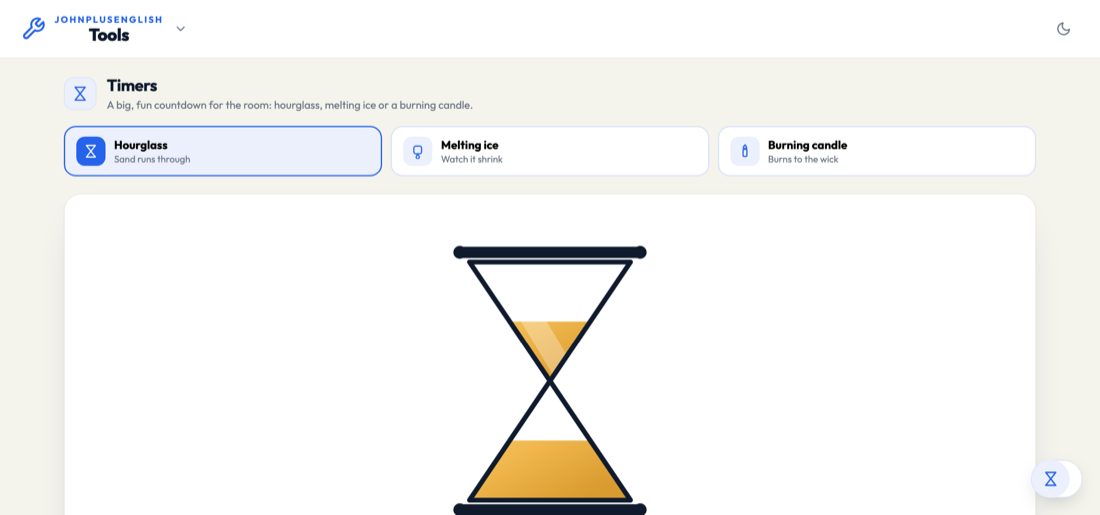
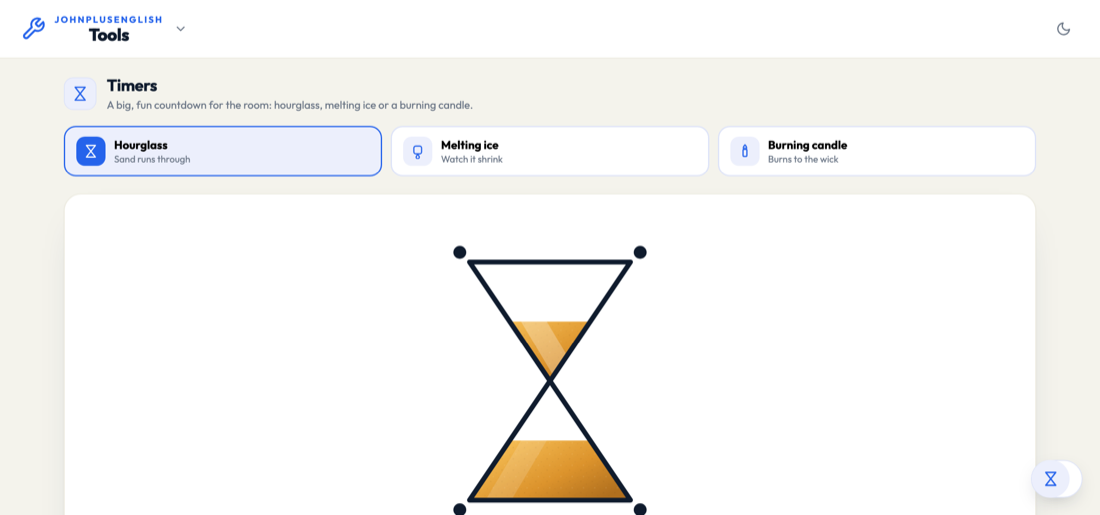
Timers: richer gradients, grain texture, contact shadows on all three
Pushed the original hand-built SVG style further rather than switching
approaches again: multi-hue gradients (4-5 stops with real hue shift, not
just light-to-dark of one color) instead of the flatter 3-stop gradients,
a subtle grain/frost pattern texture over each fill so they read less like
a flawless vector gradient, and tighter contact shadows where the object
actually touches its surface, layered under the existing soft ambient
shadow.

Also: a second neck shadow line in the hourglass, a third facet line and a
firmer contact ring under the ice, and a smoother radial-gradient flame
core with a wax-side shading stripe on the candle.

Changed region(s): [[0.4018, 0.901, 0.5873, 1.0], [0.4018, 0.466, 0.5873, 0.5282]]

diff --git a/src/timers.html b/src/timers.html
@@ -279,18 +279,35 @@ function tmrRenderHourglass(progress, running) {
         '<clipPath id="tmrTopClip"><rect x="0" y="' + topClipY.toFixed(1) + '" width="160" height="' + (topH + 1).toFixed(1) + '"/></clipPath>' +
         '<clipPath id="tmrBotClip"><rect x="0" y="' + botClipY.toFixed(1) + '" width="160" height="' + (botH + 1).toFixed(1) + '"/></clipPath>' +
         '<clipPath id="tmrGlassClipTop"><polygon points="30,26 130,26 80,100"/></clipPath>' +
-        '<linearGradient id="tmrSandGrad" x1="0" y1="0" x2="0.7" y2="1">' +
-          '<stop offset="0" stop-color="#ffd27a"/><stop offset="0.55" stop-color="#f0b84e"/><stop offset="1" stop-color="#d99a2f"/>' +
+        '<clipPath id="tmrGlassClipBot"><polygon points="30,174 130,174 80,100"/></clipPath>' +
+        '<linearGradient id="tmrSandGrad" x1="0.1" y1="0" x2="0.8" y2="1">' +
+          '<stop offset="0" stop-color="#ffe3a3"/><stop offset="0.4" stop-color="#f5bd54"/>' +
+          '<stop offset="0.75" stop-color="#dc932c"/><stop offset="1" stop-color="#b06f1e"/>' +
         '</linearGradient>' +
+        '<linearGradient id="tmrCapGrad" x1="0" y1="0" x2="0" y2="1">' +
+          '<stop offset="0" stop-color="var(--ink)" stop-opacity="0.85"/><stop offset="1" stop-color="var(--ink)"/>' +
+        '</linearGradient>' +
+        '<pattern id="tmrGrain" width="7" height="7" patternUnits="userSpaceOnUse">' +
+          '<circle cx="1.2" cy="1.4" r="0.5" fill="#5c3b0e" opacity="0.16"/>' +
+          '<circle cx="4.6" cy="3.1" r="0.4" fill="#5c3b0e" opacity="0.12"/>' +
+          '<circle cx="2.8" cy="5.4" r="0.45" fill="#fff6df" opacity="0.22"/>' +
+          '<circle cx="6.1" cy="6" r="0.35" fill="#5c3b0e" opacity="0.1"/>' +
+        '</pattern>' +
       '</defs>' +
-      '<ellipse cx="80" cy="192" rx="36" ry="5" fill="var(--ink)" opacity="0.08"/>' +
+      '<ellipse cx="80" cy="193" rx="34" ry="4.5" fill="var(--ink)" opacity="0.09"/>' +
+      '<ellipse cx="80" cy="190" rx="20" ry="2.5" fill="var(--ink)" opacity="0.14"/>' +
       '<polygon points="30,26 130,26 80,100" fill="url(#tmrSandGrad)" clip-path="url(#tmrTopClip)"/>' +
+      '<polygon points="30,26 130,26 80,100" fill="url(#tmrGrain)" opacity="0.5" clip-path="url(#tmrTopClip)"/>' +
       '<polygon points="30,174 130,174 80,100" fill="url(#tmrSandGrad)" clip-path="url(#tmrBotClip)"/>' +
+      '<polygon points="30,174 130,174 80,100" fill="url(#tmrGrain)" opacity="0.5" clip-path="url(#tmrBotClip)"/>' +
+      '<line x1="69" y1="97" x2="69" y2="103" stroke="#7a4f14" stroke-width="1.4" opacity="0.35" clip-path="url(#tmrGlassClipBot)"/>' +
       grains +
-      '<polygon points="40,26 56,26 100,100 84,100" fill="#ffffff" opacity="0.3" clip-path="url(#tmrGlassClipTop)"/>' +
+      '<polygon points="40,26 56,26 100,100 84,100" fill="#ffffff" opacity="0.28" clip-path="url(#tmrGlassClipTop)"/>' +
+      '<polygon points="40,174 56,174 100,100 84,100" fill="#ffffff" opacity="0.14" clip-path="url(#tmrGlassClipBot)"/>' +
       '<path d="M30 26 L130 26 L80 100 Z M30 174 L130 174 L80 100 Z" fill="none" stroke="var(--ink)" stroke-width="3" stroke-linejoin="round"/>' +
-      '<line x1="24" y1="20" x2="136" y2="20" stroke="var(--ink)" stroke-width="7" stroke-linecap="round"/>' +
-      '<line x1="24" y1="180" x2="136" y2="180" stroke="var(--ink)" stroke-width="7" stroke-linecap="round"/>' +
+      '<line x1="24" y1="20" x2="136" y2="20" stroke="url(#tmrCapGrad)" stroke-width="7" stroke-linecap="round"/>' +
+      '<line x1="24" y1="180" x2="136" y2="180" stroke="url(#tmrCapGrad)" stroke-width="7" stroke-linecap="round"/>' +
+      '<line x1="30" y1="17.5" x2="130" y2="17.5" stroke="#ffffff" stroke-width="1" opacity="0.2" stroke-linecap="round"/>' +
       '<circle cx="24" cy="20" r="4" fill="var(--ink)"/><circle cx="136" cy="20" r="4" fill="var(--ink)"/>' +
       '<circle cx="24" cy="180" r="4" fill="var(--ink)"/><circle cx="136" cy="180" r="4" fill="var(--ink)"/>' +
     '</svg>';
@@ -320,21 +337,31 @@ function tmrRenderIce(progress, running) {
   return '' +
     '<svg viewBox="0 0 160 200" class="tmr-svg" xmlns="http://www.w3.org/2000/svg">' +
       '<defs>' +
-        '<linearGradient id="tmrIceGrad" x1="0" y1="0" x2="1" y2="1">' +
-          '<stop offset="0" stop-color="#eaf8ff"/><stop offset="0.5" stop-color="#bfe8fb"/><stop offset="1" stop-color="#8fd0f2"/>' +
+        '<linearGradient id="tmrIceGrad" x1="0.05" y1="0" x2="0.9" y2="1">' +
+          '<stop offset="0" stop-color="#f5fcff"/><stop offset="0.35" stop-color="#cdedfc"/>' +
+          '<stop offset="0.7" stop-color="#8fd0f2"/><stop offset="1" stop-color="#5fa9d6"/>' +
         '</linearGradient>' +
         '<radialGradient id="tmrPuddleGrad" cx="0.5" cy="0.35" r="0.65">' +
-          '<stop offset="0" stop-color="#d3f1fd"/><stop offset="1" stop-color="#8fd0f2"/>' +
+          '<stop offset="0" stop-color="#e2f6ff"/><stop offset="0.6" stop-color="#a9ddf5"/><stop offset="1" stop-color="#79bfe8"/>' +
         '</radialGradient>' +
+        '<pattern id="tmrFrost" width="8" height="8" patternUnits="userSpaceOnUse">' +
+          '<circle cx="1.4" cy="1.6" r="0.5" fill="#ffffff" opacity="0.5"/>' +
+          '<circle cx="5.2" cy="3.4" r="0.35" fill="#ffffff" opacity="0.35"/>' +
+          '<circle cx="3.1" cy="6.2" r="0.4" fill="#1a5a86" opacity="0.12"/>' +
+          '<circle cx="6.8" cy="6.6" r="0.3" fill="#ffffff" opacity="0.3"/>' +
+        '</pattern>' +
       '</defs>' +
       '<ellipse cx="80" cy="176" rx="' + puddleRx.toFixed(1) + '" ry="' + puddleRy.toFixed(1) + '" fill="url(#tmrPuddleGrad)" opacity="' + puddleOpacity + '"/>' +
       (puddleRx > 28 ? '<ellipse cx="80" cy="176" rx="' + (puddleRx * 0.65).toFixed(1) + '" ry="' + (puddleRy * 0.65).toFixed(1) + '" fill="none" stroke="#ffffff" stroke-width="0.8" opacity="0.4"/>' : '') +
-      '<rect x="' + x + '" y="' + topY.toFixed(1) + '" width="' + w + '" height="' + h.toFixed(1) + '" rx="' + rx.toFixed(1) + '" fill="url(#tmrIceGrad)" fill-opacity="0.92" stroke="#8fd0f2" stroke-width="2"/>' +
-      (h > 26 ? '<line x1="' + (x + 8) + '" y1="' + (topY + h * 0.3).toFixed(1) + '" x2="' + (x + w - 10) + '" y2="' + (topY + h * 0.5).toFixed(1) + '" stroke="#ffffff" stroke-width="1" opacity="0.3"/>' : '') +
-      (h > 26 ? '<line x1="' + (x + w - 12) + '" y1="' + (topY + h * 0.2).toFixed(1) + '" x2="' + (x + 14) + '" y2="' + (topY + h * 0.85).toFixed(1) + '" stroke="#ffffff" stroke-width="0.7" opacity="0.2"/>' : '') +
+      '<ellipse cx="80" cy="' + (bottomY + 1).toFixed(1) + '" rx="' + (w * 0.42).toFixed(1) + '" ry="2.4" fill="#3d7ba8" opacity="0.22"/>' +
+      '<rect x="' + x + '" y="' + topY.toFixed(1) + '" width="' + w + '" height="' + h.toFixed(1) + '" rx="' + rx.toFixed(1) + '" fill="url(#tmrIceGrad)" fill-opacity="0.94" stroke="#5fa9d6" stroke-width="1.6"/>' +
+      '<rect x="' + x + '" y="' + topY.toFixed(1) + '" width="' + w + '" height="' + h.toFixed(1) + '" rx="' + rx.toFixed(1) + '" fill="url(#tmrFrost)" opacity="0.55"/>' +
+      (h > 26 ? '<line x1="' + (x + 8) + '" y1="' + (topY + h * 0.3).toFixed(1) + '" x2="' + (x + w - 10) + '" y2="' + (topY + h * 0.5).toFixed(1) + '" stroke="#ffffff" stroke-width="1" opacity="0.35"/>' : '') +
+      (h > 26 ? '<line x1="' + (x + w - 12) + '" y1="' + (topY + h * 0.2).toFixed(1) + '" x2="' + (x + 14) + '" y2="' + (topY + h * 0.85).toFixed(1) + '" stroke="#ffffff" stroke-width="0.7" opacity="0.22"/>' : '') +
+      (h > 26 ? '<line x1="' + (x + 22) + '" y1="' + (topY + h * 0.08).toFixed(1) + '" x2="' + (x + 6) + '" y2="' + (topY + h * 0.6).toFixed(1) + '" stroke="#2f6f9c" stroke-width="0.6" opacity="0.18"/>' : '') +
       bubbleMarkup +
-      '<rect x="' + (x + 10) + '" y="' + (topY + 8).toFixed(1) + '" width="9" height="' + Math.max(0, h - 20).toFixed(1) + '" rx="4" fill="#ffffff" opacity="0.6"/>' +
-      '<rect x="' + (x + w - 15) + '" y="' + (topY + 14).toFixed(1) + '" width="4" height="' + Math.max(0, h - 30).toFixed(1) + '" rx="2" fill="#ffffff" opacity="0.35"/>' +
+      '<rect x="' + (x + 10) + '" y="' + (topY + 8).toFixed(1) + '" width="9" height="' + Math.max(0, h - 20).toFixed(1) + '" rx="4" fill="#ffffff" opacity="0.65"/>' +
+      '<rect x="' + (x + w - 15) + '" y="' + (topY + 14).toFixed(1) + '" width="4" height="' + Math.max(0, h - 30).toFixed(1) + '" rx="2" fill="#ffffff" opacity="0.4"/>' +
       (dripsOn ?
         '<circle cx="' + (x + 16) + '" cy="' + (bottomY + phaseA * 14).toFixed(1) + '" r="3" fill="#8fd0f2" opacity="' + (1 - phaseA).toFixed(2) + '"/>' +
         '<circle cx="' + (x + 52) + '" cy="' + (bottomY + phaseB * 14).toFixed(1) + '" r="2.4" fill="#8fd0f2" opacity="' + (1 - phaseB).toFixed(2) + '"/>'
@@ -358,24 +385,35 @@ function tmrRenderCandle(progress, running) {
     '<svg viewBox="0 0 160 200" class="tmr-svg" xmlns="http://www.w3.org/2000/svg">' +
       '<defs>' +
         '<linearGradient id="tmrWaxGrad" x1="0" y1="0" x2="1" y2="0">' +
-          '<stop offset="0" stop-color="#fffaf0"/><stop offset="0.45" stop-color="#fbeed9"/><stop offset="1" stop-color="#ecd9b4"/>' +
+          '<stop offset="0" stop-color="#fffdf5"/><stop offset="0.35" stop-color="#fbeed9"/>' +
+          '<stop offset="0.75" stop-color="#e8d0a0"/><stop offset="1" stop-color="#c9a874"/>' +
         '</linearGradient>' +
         '<radialGradient id="tmrFlameGlow" cx="0.5" cy="0.5" r="0.5">' +
           '<stop offset="0" stop-color="#ffd35b" stop-opacity="0.55"/><stop offset="1" stop-color="#ffd35b" stop-opacity="0"/>' +
         '</radialGradient>' +
+        '<radialGradient id="tmrFlameCore" cx="0.5" cy="0.72" r="0.6">' +
+          '<stop offset="0" stop-color="#fffdf0"/><stop offset="0.45" stop-color="#ffd35b"/><stop offset="1" stop-color="#ff8a3d"/>' +
+        '</radialGradient>' +
+        '<pattern id="tmrWaxGrain" width="7" height="7" patternUnits="userSpaceOnUse">' +
+          '<circle cx="1.3" cy="1.5" r="0.4" fill="#c9a874" opacity="0.25"/>' +
+          '<circle cx="4.8" cy="3.2" r="0.3" fill="#ffffff" opacity="0.3"/>' +
+          '<circle cx="2.9" cy="5.6" r="0.35" fill="#c9a874" opacity="0.2"/>' +
+        '</pattern>' +
       '</defs>' +
-      '<ellipse cx="80" cy="185" rx="28" ry="6.5" fill="var(--ink)" opacity="0.1"/>' +
-      '<rect x="' + x + '" y="' + topY.toFixed(1) + '" width="' + w + '" height="' + h.toFixed(1) + '" rx="7" fill="url(#tmrWaxGrad)" stroke="#e7d3ac" stroke-width="1.5"/>' +
-      '<rect x="' + (x + 4) + '" y="' + topY.toFixed(1) + '" width="6" height="' + h.toFixed(1) + '" rx="3" fill="#ffffff" opacity="0.45"/>' +
+      '<ellipse cx="80" cy="186" rx="30" ry="7" fill="var(--ink)" opacity="0.08"/>' +
+      '<ellipse cx="80" cy="184" rx="18" ry="3" fill="var(--ink)" opacity="0.15"/>' +
+      '<rect x="' + x + '" y="' + topY.toFixed(1) + '" width="' + w + '" height="' + h.toFixed(1) + '" rx="7" fill="url(#tmrWaxGrad)" stroke="#d8bc8a" stroke-width="1.4"/>' +
+      '<rect x="' + x + '" y="' + topY.toFixed(1) + '" width="' + w + '" height="' + h.toFixed(1) + '" rx="7" fill="url(#tmrWaxGrain)" opacity="0.6"/>' +
+      '<rect x="' + (x + 4) + '" y="' + topY.toFixed(1) + '" width="6" height="' + h.toFixed(1) + '" rx="3" fill="#ffffff" opacity="0.5"/>' +
+      '<rect x="' + (x + w - 9) + '" y="' + topY.toFixed(1) + '" width="3" height="' + h.toFixed(1) + '" rx="1.5" fill="#8a6f42" opacity="0.18"/>' +
       '<ellipse cx="80" cy="' + topY.toFixed(1) + '" rx="9" ry="2.6" fill="#e9d3a4"/>' +
       (dripOn ? '<path d="M' + (x + w - 4) + ' ' + dripY.toFixed(1) + ' q4.5 3.5 0 9 q-4.5 -3.5 0 -9 Z" fill="#f4e2bd"/>' : '') +
       '<line x1="80" y1="' + topY.toFixed(1) + '" x2="80" y2="' + (topY - 9).toFixed(1) + '" stroke="#4a3c28" stroke-width="2" stroke-linecap="round"/>' +
       (lit ?
         '<circle cx="80" cy="' + (topY - 15).toFixed(1) + '" r="' + (13 + flick * 1.3).toFixed(1) + '" fill="url(#tmrFlameGlow)" opacity="' + glowPulse + '"/>' +
         '<g transform="translate(80,' + (topY - 9).toFixed(1) + ') scale(' + flameScale + ') skewX(' + flameSkew + ')">' +
-          '<path d="M0 -22 C 9 -12 9 -2 0 4 C -9 -2 -9 -12 0 -22 Z" fill="#ff8a3d"/>' +
-          '<path d="M0 -15 C 5 -8 5 -1 0 3 C -5 -1 -5 -8 0 -15 Z" fill="#ffd35b"/>' +
-          '<path d="M0 -8 C 2.4 -4 2.4 -1 0 2 C -2.4 -1 -2.4 -4 0 -8 Z" fill="#fff6d8"/>' +
+          '<path d="M0 -22 C 9 -12 9 -2 0 4 C -9 -2 -9 -12 0 -22 Z" fill="url(#tmrFlameCore)"/>' +
+          '<path d="M0 -8 C 2.4 -4 2.4 -1 0 2 C -2.4 -1 -2.4 -4 0 -8 Z" fill="#fff6d8" opacity="0.9"/>' +
         '</g>'
       :
         '<path d="M80 ' + (topY - 9).toFixed(1) + ' C 86 ' + (topY - 20).toFixed(1) + ' 76 ' + (topY - 30).toFixed(1) + ' 82 ' + (topY - 42).toFixed(1) + '" fill="none" stroke="var(--muted)" stroke-width="2" stroke-linecap="round" opacity="0.5"/>'

diff --git a/tools/timers.html b/tools/timers.html
@@ -493,18 +493,35 @@ function tmrRenderHourglass(progress, running) {
         '<clipPath id="tmrTopClip"><rect x="0" y="' + topClipY.toFixed(1) + '" width="160" height="' + (topH + 1).toFixed(1) + '"/></clipPath>' +
         '<clipPath id="tmrBotClip"><rect x="0" y="' + botClipY.toFixed(1) + '" width="160" height="' + (botH + 1).toFixed(1) + '"/></clipPath>' +
         '<clipPath id="tmrGlassClipTop"><polygon points="30,26 130,26 80,100"/></clipPath>' +
-        '<linearGradient id="tmrSandGrad" x1="0" y1="0" x2="0.7" y2="1">' +
-          '<stop offset="0" stop-color="#ffd27a"/><stop offset="0.55" stop-color="#f0b84e"/><stop offset="1" stop-color="#d99a2f"/>' +
+        '<clipPath id="tmrGlassClipBot"><polygon points="30,174 130,174 80,100"/></clipPath>' +
+        '<linearGradient id="tmrSandGrad" x1="0.1" y1="0" x2="0.8" y2="1">' +
+          '<stop offset="0" stop-color="#ffe3a3"/><stop offset="0.4" stop-color="#f5bd54"/>' +
+          '<stop offset="0.75" stop-color="#dc932c"/><stop offset="1" stop-color="#b06f1e"/>' +
         '</linearGradient>' +
+        '<linearGradient id="tmrCapGrad" x1="0" y1="0" x2="0" y2="1">' +
+          '<stop offset="0" stop-color="var(--ink)" stop-opacity="0.85"/><stop offset="1" stop-color="var(--ink)"/>' +
+        '</linearGradient>' +
+        '<pattern id="tmrGrain" width="7" height="7" patternUnits="userSpaceOnUse">' +
+          '<circle cx="1.2" cy="1.4" r="0.5" fill="#5c3b0e" opacity="0.16"/>' +
+          '<circle cx="4.6" cy="3.1" r="0.4" fill="#5c3b0e" opacity="0.12"/>' +
+          '<circle cx="2.8" cy="5.4" r="0.45" fill="#fff6df" opacity="0.22"/>' +
+          '<circle cx="6.1" cy="6" r="0.35" fill="#5c3b0e" opacity="0.1"/>' +
+        '</pattern>' +
       '</defs>' +
-      '<ellipse cx="80" cy="192" rx="36" ry="5" fill="var(--ink)" opacity="0.08"/>' +
+      '<ellipse cx="80" cy="193" rx="34" ry="4.5" fill="var(--ink)" opacity="0.09"/>' +
+      '<ellipse cx="80" cy="190" rx="20" ry="2.5" fill="var(--ink)" opacity="0.14"/>' +
       '<polygon points="30,26 130,26 80,100" fill="url(#tmrSandGrad)" clip-path="url(#tmrTopClip)"/>' +
+      '<polygon points="30,26 130,26 80,100" fill="url(#tmrGrain)" opacity="0.5" clip-path="url(#tmrTopClip)"/>' +
       '<polygon points="30,174 130,174 80,100" fill="url(#tmrSandGrad)" clip-path="url(#tmrBotClip)"/>' +
+      '<polygon points="30,174 130,174 80,100" fill="url(#tmrGrain)" opacity="0.5" clip-path="url(#tmrBotClip)"/>' +
+      '<line x1="69" y1="97" x2="69" y2="103" stroke="#7a4f14" stroke-width="1.4" opacity="0.35" clip-path="url(#tmrGlassClipBot)"/>' +
       grains +
-      '<polygon points="40,26 56,26 100,100 84,100" fill="#ffffff" opacity="0.3" clip-path="url(#tmrGlassClipTop)"/>' +
+      '<polygon points="40,26 56,26 100,100 84,100" fill="#ffffff" opacity="0.28" clip-path="url(#tmrGlassClipTop)"/>' +
+      '<polygon points="40,174 56,174 100,100 84,100" fill="#ffffff" opacity="0.14" clip-path="url(#tmrGlassClipBot)"/>' +
       '<path d="M30 26 L130 26 L80 100 Z M30 174 L130 174 L80 100 Z" fill="none" stroke="var(--ink)" stroke-width="3" stroke-linejoin="round"/>' +
-      '<line x1="24" y1="20" x2="136" y2="20" stroke="var(--ink)" stroke-width="7" stroke-linecap="round"/>' +
-      '<line x1="24" y1="180" x2="136" y2="180" stroke="var(--ink)" stroke-width="7" stroke-linecap="round"/>' +
+      '<line x1="24" y1="20" x2="136" y2="20" stroke="url(#tmrCapGrad)" stroke-width="7" stroke-linecap="round"/>' +
+      '<line x1="24" y1="180" x2="136" y2="180" stroke="url(#tmrCapGrad)" stroke-width="7" stroke-linecap="round"/>' +
+      '<line x1="30" y1="17.5" x2="130" y2="17.5" stroke="#ffffff" stroke-width="1" opacity="0.2" stroke-linecap="round"/>' +
       '<circle cx="24" cy="20" r="4" fill="var(--ink)"/><circle cx="136" cy="20" r="4" fill="var(--ink)"/>' +
       '<circle cx="24" cy="180" r="4" fill="var(--ink)"/><circle cx="136" cy="180" r="4" fill="var(--ink)"/>' +
     '</svg>';
@@ -534,21 +551,31 @@ function tmrRenderIce(progress, running) {
   return '' +
     '<svg viewBox="0 0 160 200" class="tmr-svg" xmlns="http://www.w3.org/2000/svg">' +
       '<defs>' +
-        '<linearGradient id="tmrIceGrad" x1="0" y1="0" x2="1" y2="1">' +
-          '<stop offset="0" stop-color="#eaf8ff"/><stop offset="0.5" stop-color="#bfe8fb"/><stop offset="1" stop-color="#8fd0f2"/>' +
+        '<linearGradient id="tmrIceGrad" x1="0.05" y1="0" x2="0.9" y2="1">' +
+          '<stop offset="0" stop-color="#f5fcff"/><stop offset="0.35" stop-color="#cdedfc"/>' +
+          '<stop offset="0.7" stop-color="#8fd0f2"/><stop offset="1" stop-color="#5fa9d6"/>' +
         '</linearGradient>' +
         '<radialGradient id="tmrPuddleGrad" cx="0.5" cy="0.35" r="0.65">' +
-          '<stop offset="0" stop-color="#d3f1fd"/><stop offset="1" stop-color="#8fd0f2"/>' +
+          '<stop offset="0" stop-color="#e2f6ff"/><stop offset="0.6" stop-color="#a9ddf5"/><stop offset="1" stop-color="#79bfe8"/>' +
         '</radialGradient>' +
+        '<pattern id="tmrFrost" width="8" height="8" patternUnits="userSpaceOnUse">' +
+          '<circle cx="1.4" cy="1.6" r="0.5" fill="#ffffff" opacity="0.5"/>' +
+          '<circle cx="5.2" cy="3.4" r="0.35" fill="#ffffff" opacity="0.35"/>' +
+          '<circle cx="3.1" cy="6.2" r="0.4" fill="#1a5a86" opacity="0.12"/>' +
+          '<circle cx="6.8" cy="6.6" r="0.3" fill="#ffffff" opacity="0.3"/>' +
+        '</pattern>' +
       '</defs>' +
       '<ellipse cx="80" cy="176" rx="' + puddleRx.toFixed(1) + '" ry="' + puddleRy.toFixed(1) + '" fill="url(#tmrPuddleGrad)" opacity="' + puddleOpacity + '"/>' +
       (puddleRx > 28 ? '<ellipse cx="80" cy="176" rx="' + (puddleRx * 0.65).toFixed(1) + '" ry="' + (puddleRy * 0.65).toFixed(1) + '" fill="none" stroke="#ffffff" stroke-width="0.8" opacity="0.4"/>' : '') +
-      '<rect x="' + x + '" y="' + topY.toFixed(1) + '" width="' + w + '" height="' + h.toFixed(1) + '" rx="' + rx.toFixed(1) + '" fill="url(#tmrIceGrad)" fill-opacity="0.92" stroke="#8fd0f2" stroke-width="2"/>' +
-      (h > 26 ? '<line x1="' + (x + 8) + '" y1="' + (topY + h * 0.3).toFixed(1) + '" x2="' + (x + w - 10) + '" y2="' + (topY + h * 0.5).toFixed(1) + '" stroke="#ffffff" stroke-width="1" opacity="0.3"/>' : '') +
-      (h > 26 ? '<line x1="' + (x + w - 12) + '" y1="' + (topY + h * 0.2).toFixed(1) + '" x2="' + (x + 14) + '" y2="' + (topY + h * 0.85).toFixed(1) + '" stroke="#ffffff" stroke-width="0.7" opacity="0.2"/>' : '') +
+      '<ellipse cx="80" cy="' + (bottomY + 1).toFixed(1) + '" rx="' + (w * 0.42).toFixed(1) + '" ry="2.4" fill="#3d7ba8" opacity="0.22"/>' +
+      '<rect x="' + x + '" y="' + topY.toFixed(1) + '" width="' + w + '" height="' + h.toFixed(1) + '" rx="' + rx.toFixed(1) + '" fill="url(#tmrIceGrad)" fill-opacity="0.94" stroke="#5fa9d6" stroke-width="1.6"/>' +
+      '<rect x="' + x + '" y="' + topY.toFixed(1) + '" width="' + w + '" height="' + h.toFixed(1) + '" rx="' + rx.toFixed(1) + '" fill="url(#tmrFrost)" opacity="0.55"/>' +
+      (h > 26 ? '<line x1="' + (x + 8) + '" y1="' + (topY + h * 0.3).toFixed(1) + '" x2="' + (x + w - 10) + '" y2="' + (topY + h * 0.5).toFixed(1) + '" stroke="#ffffff" stroke-width="1" opacity="0.35"/>' : '') +
+      (h > 26 ? '<line x1="' + (x + w - 12) + '" y1="' + (topY + h * 0.2).toFixed(1) + '" x2="' + (x + 14) + '" y2="' + (topY + h * 0.85).toFixed(1) + '" stroke="#ffffff" stroke-width="0.7" opacity="0.22"/>' : '') +
+      (h > 26 ? '<line x1="' + (x + 22) + '" y1="' + (topY + h * 0.08).toFixed(1) + '" x2="' + (x + 6) + '" y2="' + (topY + h * 0.6).toFixed(1) + '" stroke="#2f6f9c" stroke-width="0.6" opacity="0.18"/>' : '') +
       bubbleMarkup +
-      '<rect x="' + (x + 10) + '" y="' + (topY + 8).toFixed(1) + '" width="9" height="' + Math.max(0, h - 20).toFixed(1) + '" rx="4" fill="#ffffff" opacity="0.6"/>' +
-      '<rect x="' + (x + w - 15) + '" y="' + (topY + 14).toFixed(1) + '" width="4" height="' + Math.max(0, h - 30).toFixed(1) + '" rx="2" fill="#ffffff" opacity="0.35"/>' +
+      '<rect x="' + (x + 10) + '" y="' + (topY + 8).toFixed(1) + '" width="9" height="' + Math.max(0, h - 20).toFixed(1) + '" rx="4" fill="#ffffff" opacity="0.65"/>' +
+      '<rect x="' + (x + w - 15) + '" y="' + (topY + 14).toFixed(1) + '" width="4" height="' + Math.max(0, h - 30).toFixed(1) + '" rx="2" fill="#ffffff" opacity="0.4"/>' +
       (dripsOn ?
         '<circle cx="' + (x + 16) + '" cy="' + (bottomY + phaseA * 14).toFixed(1) + '" r="3" fill="#8fd0f2" opacity="' + (1 - phaseA).toFixed(2) + '"/>' +
         '<circle cx="' + (x + 52) + '" cy="' + (bottomY + phaseB * 14).toFixed(1) + '" r="2.4" fill="#8fd0f2" opacity="' + (1 - phaseB).toFixed(2) + '"/>'
@@ -572,24 +599,35 @@ function tmrRenderCandle(progress, running) {
     '<svg viewBox="0 0 160 200" class="tmr-svg" xmlns="http://www.w3.org/2000/svg">' +
       '<defs>' +
         '<linearGradient id="tmrWaxGrad" x1="0" y1="0" x2="1" y2="0">' +
-          '<stop offset="0" stop-color="#fffaf0"/><stop offset="0.45" stop-color="#fbeed9"/><stop offset="1" stop-color="#ecd9b4"/>' +
+          '<stop offset="0" stop-color="#fffdf5"/><stop offset="0.35" stop-color="#fbeed9"/>' +
+          '<stop offset="0.75" stop-color="#e8d0a0"/><stop offset="1" stop-color="#c9a874"/>' +
         '</linearGradient>' +
         '<radialGradient id="tmrFlameGlow" cx="0.5" cy="0.5" r="0.5">' +
           '<stop offset="0" stop-color="#ffd35b" stop-opacity="0.55"/><stop offset="1" stop-color="#ffd35b" stop-opacity="0"/>' +
         '</radialGradient>' +
+        '<radialGradient id="tmrFlameCore" cx="0.5" cy="0.72" r="0.6">' +
+          '<stop offset="0" stop-color="#fffdf0"/><stop offset="0.45" stop-color="#ffd35b"/><stop offset="1" stop-color="#ff8a3d"/>' +
+        '</radialGradient>' +
+        '<pattern id="tmrWaxGrain" width="7" height="7" patternUnits="userSpaceOnUse">' +
+          '<circle cx="1.3" cy="1.5" r="0.4" fill="#c9a874" opacity="0.25"/>' +
+          '<circle cx="4.8" cy="3.2" r="0.3" fill="#ffffff" opacity="0.3"/>' +
+          '<circle cx="2.9" cy="5.6" r="0.35" fill="#c9a874" opacity="0.2"/>' +
+        '</pattern>' +
       '</defs>' +
-      '<ellipse cx="80" cy="185" rx="28" ry="6.5" fill="var(--ink)" opacity="0.1"/>' +
-      '<rect x="' + x + '" y="' + topY.toFixed(1) + '" width="' + w + '" height="' + h.toFixed(1) + '" rx="7" fill="url(#tmrWaxGrad)" stroke="#e7d3ac" stroke-width="1.5"/>' +
-      '<rect x="' + (x + 4) + '" y="' + topY.toFixed(1) + '" width="6" height="' + h.toFixed(1) + '" rx="3" fill="#ffffff" opacity="0.45"/>' +
+      '<ellipse cx="80" cy="186" rx="30" ry="7" fill="var(--ink)" opacity="0.08"/>' +
+      '<ellipse cx="80" cy="184" rx="18" ry="3" fill="var(--ink)" opacity="0.15"/>' +
+      '<rect x="' + x + '" y="' + topY.toFixed(1) + '" width="' + w + '" height="' + h.toFixed(1) + '" rx="7" fill="url(#tmrWaxGrad)" stroke="#d8bc8a" stroke-width="1.4"/>' +
+      '<rect x="' + x + '" y="' + topY.toFixed(1) + '" width="' + w + '" height="' + h.toFixed(1) + '" rx="7" fill="url(#tmrWaxGrain)" opacity="0.6"/>' +
+      '<rect x="' + (x + 4) + '" y="' + topY.toFixed(1) + '" width="6" height="' + h.toFixed(1) + '" rx="3" fill="#ffffff" opacity="0.5"/>' +
+      '<rect x="' + (x + w - 9) + '" y="' + topY.toFixed(1) + '" width="3" height="' + h.toFixed(1) + '" rx="1.5" fill="#8a6f42" opacity="0.18"/>' +
       '<ellipse cx="80" cy="' + topY.toFixed(1) + '" rx="9" ry="2.6" fill="#e9d3a4"/>' +
       (dripOn ? '<path d="M' + (x + w - 4) + ' ' + dripY.toFixed(1) + ' q4.5 3.5 0 9 q-4.5 -3.5 0 -9 Z" fill="#f4e2bd"/>' : '') +
       '<line x1="80" y1="' + topY.toFixed(1) + '" x2="80" y2="' + (topY - 9).toFixed(1) + '" stroke="#4a3c28" stroke-width="2" stroke-linecap="round"/>' +
       (lit ?
         '<circle cx="80" cy="' + (topY - 15).toFixed(1) + '" r="' + (13 + flick * 1.3).toFixed(1) + '" fill="url(#tmrFlameGlow)" opacity="' + glowPulse + '"/>' +
         '<g transform="translate(80,' + (topY - 9).toFixed(1) + ') scale(' + flameScale + ') skewX(' + flameSkew + ')">' +
-          '<path d="M0 -22 C 9 -12 9 -2 0 4 C -9 -2 -9 -12 0 -22 Z" fill="#ff8a3d"/>' +
-          '<path d="M0 -15 C 5 -8 5 -1 0 3 C -5 -1 -5 -8 0 -15 Z" fill="#ffd35b"/>' +
-          '<path d="M0 -8 C 2.4 -4 2.4 -1 0 2 C -2.4 -1 -2.4 -4 0 -8 Z" fill="#fff6d8"/>' +
+          '<path d="M0 -22 C 9 -12 9 -2 0 4 C -9 -2 -9 -12 0 -22 Z" fill="url(#tmrFlameCore)"/>' +
+          '<path d="M0 -8 C 2.4 -4 2.4 -1 0 2 C -2.4 -1 -2.4 -4 0 -8 Z" fill="#fff6d8" opacity="0.9"/>' +
         '</g>'
       :
         '<path d="M80 ' + (topY - 9).toFixed(1) + ' C 86 ' + (topY - 20).toFixed(1) + ' 76 ' + (topY - 30).toFixed(1) + ' 82 ' + (topY - 42).toFixed(1) + '" fill="none" stroke="var(--muted)" stroke-width="2" stroke-linecap="round" opacity="0.5"/>'
